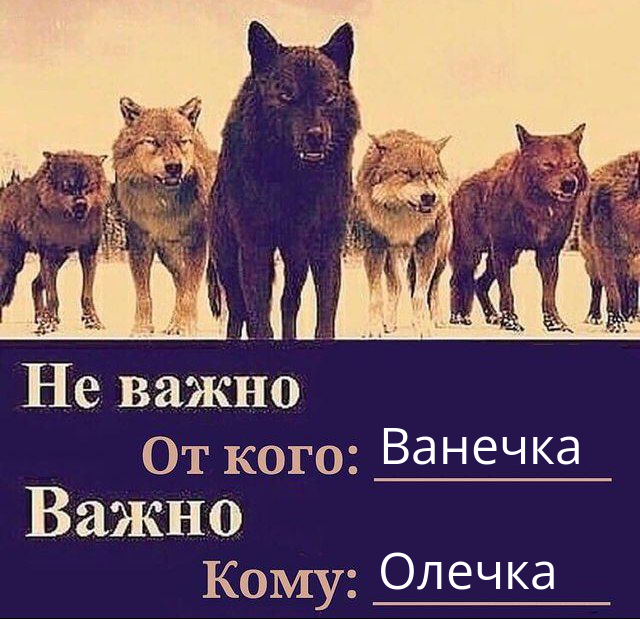
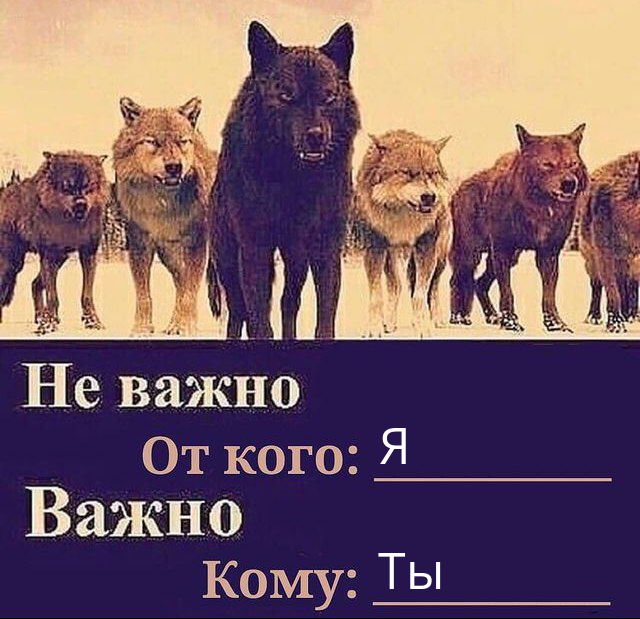
+ fully working bot

Changed region(s): [[0.5938, 0.6753, 0.9062, 0.7674], [0.5938, 0.8901, 0.875, 0.9515]]

diff --git a/main.py b/main.py
@@ -1,26 +1,50 @@
 import logging
 from aiogram import Bot, Dispatcher, executor
+from aiogram.types import InputFile
 from os import getenv
 from dotenv import load_dotenv
+from generate_valentine import generate_valentine
 
 load_dotenv()
 
 API_TOKEN = getenv('BOT_TOKEN')
-
 
 logging.basicConfig(level=logging.INFO)
 
 bot = Bot(token=API_TOKEN)
 dp = Dispatcher(bot)
 
-@dp.message_handler(commands=['start', 'help'])
+state = {
+    'page': 0,
+    'from': None,
+    'to': None
+}
+
+
+@dp.message_handler(lambda msg: state['page'] == 0)
 async def start(message):
-    await message.answer('Hi')
+    state['page'] = 1
+    print(message.chat)
+    await message.answer(
+        'Привет я Валентин, я могу сделать для тебя валентинку!\n \n Пожалуйста, введи имя отправителя: ')
+
+
+@dp.message_handler(lambda msg: state['page'] == 1)
+async def get_from(message):
+    state['from'] = message.text
+    state['page'] = 2
+    await message.answer(
+        'Пожалуйста, введи имя получателя: '
+    )
+
+@dp.message_handler(lambda msg: state['page'] == 2)
+async def get_to(message):
+    state['to'] = message.text
+    image_title = generate_valentine(state['from'], state['to'])
+
+    state['page'] = 0
+    await bot.send_photo(chat_id=message.chat['id'], photo=InputFile(image_title))
 
 
 if __name__ == '__main__':
     executor.start_polling(dp, skip_updates=True)
-
-
-
-
